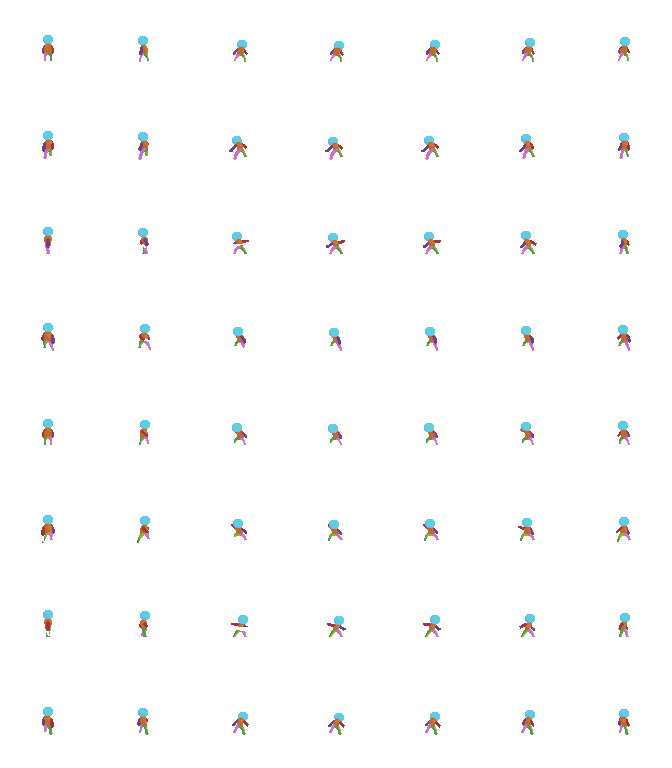
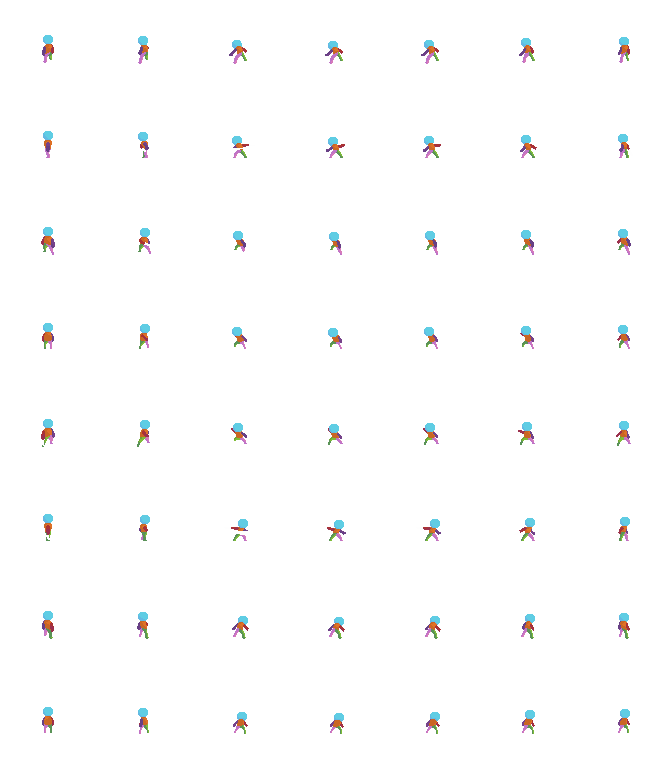
Simple attacking

diff --git a/src/game/character/player.rs b/src/game/character/player.rs
@@ -6,7 +6,7 @@ use std::time::Duration;
 use crate::game::character::animation::{
     AnimationCapabilities, CharacterAnimation, CharacterAnimationData,
 };
-use crate::game::character::{character, CharacterStateEvent, CharacterState, Facing};
+use crate::game::character::{CharacterState, CharacterStateEvent, Facing, character};
 use crate::game::grid::coords::{
     WorldPosition, rotate_screen_space_to_facing, rotate_screen_space_to_movement,
 };
@@ -37,6 +37,8 @@ pub(super) fn plugin(app: &mut App) {
     .add_observer(on_aim_facing_changed);
 }
 
+const ATTACK_DURATION: u64 = 560;
+
 /// The player character.
 pub fn player(
     position: Vec3,
@@ -48,10 +50,12 @@ pub fn player(
     let idle_layout = TextureAtlasLayout::from_grid(UVec2::splat(64), 12, 8, None, None);
     let walk_layout = TextureAtlasLayout::from_grid(UVec2::splat(64), 8, 8, None, None);
     let run_layout = TextureAtlasLayout::from_grid(UVec2::splat(64), 8, 8, None, None);
+    let attack_layout = TextureAtlasLayout::from_grid(UVec2::new(96, 96), 7, 8, None, None);
 
     let idle_layout = texture_atlas_layouts.add(idle_layout);
     let walk_layout = texture_atlas_layouts.add(walk_layout);
     let run_layout = texture_atlas_layouts.add(run_layout);
+    let attack_layout = texture_atlas_layouts.add(attack_layout);
 
     let character_animation = CharacterAnimation::new(AnimationCapabilities {
         idle: CharacterAnimationData {
@@ -80,6 +84,15 @@ pub fn player(
             },
             frames: 8,
             interval: Duration::from_millis(50),
+        }),
+        attack: Some(CharacterAnimationData {
+            image: player_assets.attack.clone(),
+            atlas: TextureAtlas {
+                layout: attack_layout,
+                index: 0,
+            },
+            frames: 7,
+            interval: Duration::from_millis(ATTACK_DURATION / 7),
         }),
     });
 
@@ -150,7 +163,7 @@ const JUMP_VELOCITY: f32 = 2.75;
 pub struct Player;
 
 #[derive(Component, Debug, Clone, Copy, PartialEq, Default, Eq, Reflect)]
-pub struct AimFacing(Option<Facing>);
+pub struct AimFacing(pub Option<Facing>);
 
 #[derive(EntityEvent, Debug, Clone, Reflect)]
 pub struct AimFacingEvent {
@@ -180,7 +193,7 @@ fn record_aim_input(
         };
 
         if let Ok((aiming_entity, aim_facing)) = aim_query.single()
-            //&& new_facing != aim_facing.0
+        //&& new_facing != aim_facing.0
         {
             commands.trigger(AimFacingEvent {
                 entity: aiming_entity,
@@ -286,26 +299,30 @@ fn record_player_movement_input(
     }
 
     // Apply movement intent to controllers.
-    for (entity, mut controller, physics, position, _state) in &mut controller_query {
+    for (entity, mut controller, physics, position, state) in &mut controller_query {
+        if !state.is_movement() {
+            controller.intent = Vec3::ZERO;
+            continue;
+        }
+
         controller.intent = intent;
 
         let new_state = if intent.length() > 1e-6 {
             if intent.length() < 0.7 {
                 controller.running = false;
                 CharacterState::Walking
-            }
-            else {
+            } else {
                 match (toggle_run, controller.running) {
                     (false, false) => CharacterState::Walking,
                     (false, true) => CharacterState::Running,
                     (true, false) => {
                         controller.running = true;
                         CharacterState::Running
-                    },
+                    }
                     (true, true) => {
                         controller.running = false;
                         CharacterState::Walking
-                    },
+                    }
                 }
             }
         } else {
@@ -338,13 +355,13 @@ fn record_action_input(
     input: Res<ButtonInput<KeyCode>>,
     gamepad_res: Option<Res<GamepadRes>>,
     gamepads: Query<&Gamepad>,
-    health_query: Query<(Entity, &Health), With<Player>>,
+    player_query: Query<(Entity, &mut CharacterState), With<Player>>,
     mut commands: Commands,
 ) {
     if let Some(gamepad_res) = gamepad_res
         && let Ok(gamepad) = gamepads.get(gamepad_res.0)
     {
-        let Ok((player, health)) = health_query.single() else {
+        let Ok((player, state)) = player_query.single() else {
             return;
         };
 
@@ -357,6 +374,15 @@ fn record_action_input(
 
         if gamepad.just_pressed(GamepadButton::North) {
             commands.trigger(HealthEvent::new(player, HealthEventType::Heal(10)));
+        }
+
+        if gamepad.just_pressed(GamepadButton::RightTrigger) {
+            commands.trigger(CharacterStateEvent {
+                entity: player,
+                new_state: CharacterState::Attacking { time_left: ATTACK_DURATION as f32 / 1000.0 },
+                prev_state: None,
+                config: Default::default(),
+            })
         }
     }
 }
@@ -386,6 +412,8 @@ pub struct PlayerAssets {
     walk: Handle<Image>,
     #[dependency]
     run: Handle<Image>,
+    #[dependency]
+    attack: Handle<Image>,
 
     #[dependency]
     indicator_ring: Handle<Image>,
@@ -401,6 +429,8 @@ impl FromWorld for PlayerAssets {
             idle: assets.load("images/characters/idle.png"),
             walk: assets.load("images/characters/walk.png"),
             run: assets.load("images/characters/run.png"),
+            attack: assets.load("images/characters/attack.png"),
+
             indicator_ring: assets.load("images/characters/indicator_ring.png"),
 
             steps: vec![

diff --git a/src/game/character/animation.rs b/src/game/character/animation.rs
@@ -1,3 +1,4 @@
+use crate::game::character::player::AimFacing;
 use crate::game::character::{CharacterState, Facing};
 use crate::game::physics::movement::MovementController;
 use crate::{AppSystems, PausableSystems};
@@ -30,20 +31,34 @@ fn update_animation_state(
         &MovementController,
         &CharacterState,
         &Facing,
+        Option<&AimFacing>,
     )>,
 ) {
-    for (mut animation, controller, state, facing) in query {
+    for (mut animation, controller, state, facing, aim_facing) in query {
         animation.facing = *facing;
-        
+
         match state {
             CharacterState::Idle => {
                 animation.set_idle();
             }
             CharacterState::Walking => {
-                animation.set_walking().unwrap_or_else(|_| animation.set_idle());
+                animation
+                    .set_walking()
+                    .unwrap_or_else(|_| animation.set_idle());
             }
             CharacterState::Running => {
-                animation.set_running().unwrap_or_else(|_| animation.set_idle());
+                animation
+                    .set_running()
+                    .unwrap_or_else(|_| animation.set_idle());
+            }
+            CharacterState::Attacking { .. } => {
+                if let Some(aim_facing) = aim_facing.map(|aim_facing| aim_facing.0).flatten() {
+                    animation.facing = aim_facing;
+                }
+                
+                animation
+                    .set_attacking()
+                    .unwrap_or_else(|_| animation.set_idle());
             }
         }
     }
@@ -135,6 +150,23 @@ impl CharacterAnimation {
         Ok(())
     }
 
+    fn set_attacking(&mut self) -> Result<(), AnimationError> {
+        if matches!(self.state, AnimationState::Attacking) {
+            return Ok(());
+        }
+
+        let attack = self
+            .capabilities
+            .attack
+            .as_ref()
+            .ok_or(AnimationError::NoSuchCapability(AnimationState::Attacking))?;
+
+        self.state = AnimationState::Attacking;
+        self.timer = Timer::new(attack.interval, TimerMode::Repeating);
+        self.frame = 0;
+        Ok(())
+    }
+
     fn reset(&mut self) {
         self.state = AnimationState::Idling;
         self.timer = Timer::new(self.capabilities.idle.interval, TimerMode::Repeating);
@@ -161,8 +193,17 @@ impl CharacterAnimation {
                     }
                 }
                 AnimationState::Running => {
-                    if let Some(walk) = &self.capabilities.walk {
-                        walk.frames
+                    if let Some(run) = &self.capabilities.walk {
+                        run.frames
+                    } else {
+                        // If we somehow got into an invalid state, reset the animation to idle
+                        self.reset();
+                        return;
+                    }
+                }
+                AnimationState::Attacking => {
+                    if let Some(attack) = &self.capabilities.attack {
+                        attack.frames
                     } else {
                         // If we somehow got into an invalid state, reset the animation to idle
                         self.reset();
@@ -191,6 +232,13 @@ impl CharacterAnimation {
                     default
                 }
             }
+            AnimationState::Attacking => {
+                if let Some(attack) = &self.capabilities.attack {
+                    &attack.image
+                } else {
+                    default
+                }
+            }
         }
     }
 
@@ -209,6 +257,13 @@ impl CharacterAnimation {
             AnimationState::Running => {
                 if let Some(run) = &self.capabilities.run {
                     &run.atlas
+                } else {
+                    default
+                }
+            }
+            AnimationState::Attacking => {
+                if let Some(attack) = &self.capabilities.attack {
+                    &attack.atlas
                 } else {
                     default
                 }
@@ -240,6 +295,14 @@ impl CharacterAnimation {
                     default
                 }
             }
+            AnimationState::Attacking => {
+                if let Some(attack) = &self.capabilities.attack {
+                    let offset = self.facing as usize * attack.frames;
+                    self.frame + offset
+                } else {
+                    default
+                }
+            }
         }
     }
 
@@ -262,6 +325,7 @@ pub struct AnimationCapabilities {
     pub idle: CharacterAnimationData,
     pub walk: Option<CharacterAnimationData>,
     pub run: Option<CharacterAnimationData>,
+    pub attack: Option<CharacterAnimationData>,
 }
 
 #[derive(Debug, Clone, Reflect)]
@@ -269,4 +333,5 @@ pub enum AnimationState {
     Idling,
     Walking,
     Running,
+    Attacking,
 }

diff --git a/src/game/character/mod.rs b/src/game/character/mod.rs
@@ -1,3 +1,4 @@
+use crate::AppSystems;
 use crate::asset_tracking::LoadResource;
 use crate::game::character::animation::CharacterAnimation;
 use crate::game::grid::coords::WorldPosition;
@@ -13,6 +14,7 @@ pub fn plugin(app: &mut App) {
     app.load_resource::<CharacterAssets>();
 
     app.add_plugins((animation::plugin, health::plugin, player::plugin));
+    app.add_systems(Update, (update_state,).in_set(AppSystems::Update));
     app.add_observer(on_state_change);
 }
 
@@ -54,11 +56,19 @@ impl FromWorld for CharacterAssets {
     }
 }
 
-#[derive(Component, Debug, Clone, Copy, PartialEq, Eq, Hash, Reflect)]
+#[derive(Component, Debug, Clone, Copy, PartialEq, Reflect)]
 pub enum CharacterState {
     Idle,
     Walking,
     Running,
+    Attacking { time_left: f32 },
+}
+
+impl CharacterState {
+    /// If this state is a movement state which can be canceled into other states
+    pub fn is_movement(&self) -> bool {
+        matches!(self, CharacterState::Idle | CharacterState::Walking | CharacterState::Running)
+    }
 }
 
 #[derive(EntityEvent, Debug, Clone, Reflect)]
@@ -95,7 +105,7 @@ impl Default for CharacterStateEventConfiguration {
 
 fn on_state_change(
     event: On<CharacterStateEvent>,
-    mut query: Query<(&mut CharacterState), With<Character>>,
+    mut query: Query<&mut CharacterState, With<Character>>,
 ) {
     let Ok(mut state) = query.get_mut(event.entity) else {
         return;
@@ -115,6 +125,19 @@ fn on_state_change(
     }
 
     *state = event.new_state;
+}
+
+fn update_state(time: Res<Time>, mut query: Query<(&mut CharacterState), With<Character>>) {
+    query.iter_mut().for_each(|mut state| match *state {
+        CharacterState::Attacking { ref mut time_left } => {
+            *time_left -= time.delta_secs();
+
+            if *time_left <= 0.0 {
+                *state = CharacterState::Idle;
+            }
+        }
+        _ => {}
+    })
 }
 
 #[derive(Component, Debug, Clone, Copy, PartialEq, Eq, Default, Reflect)]
